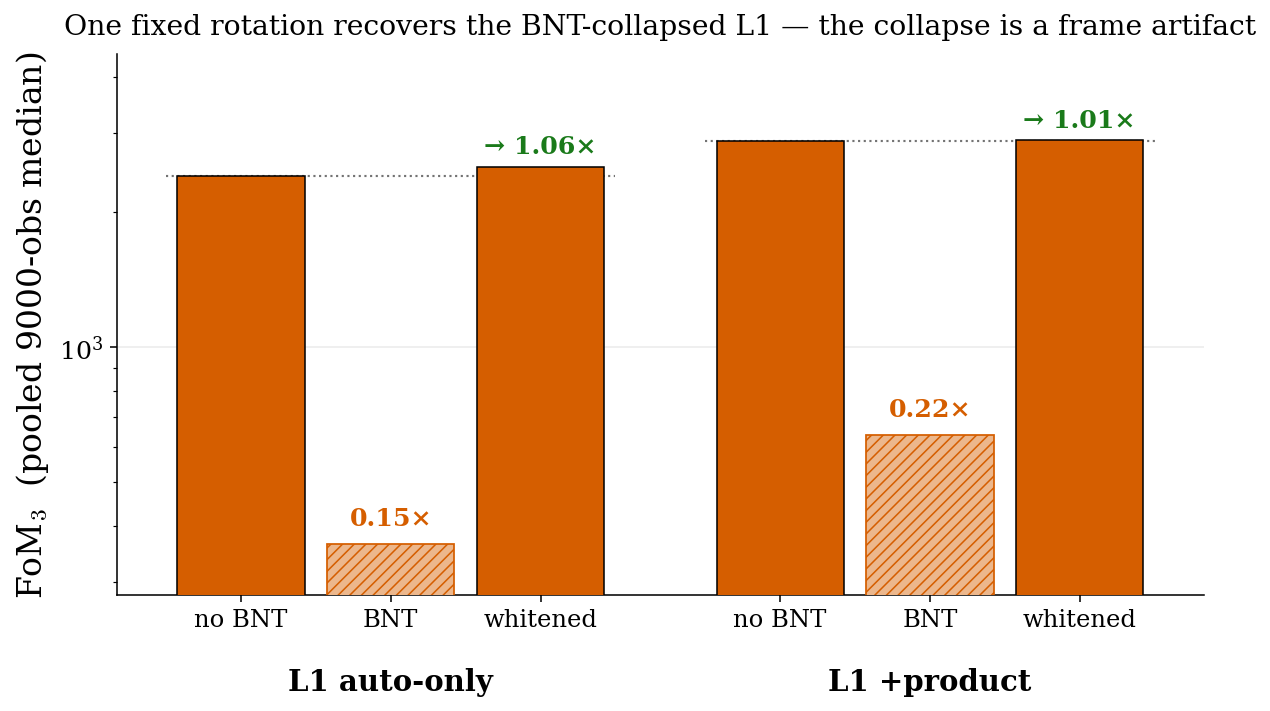
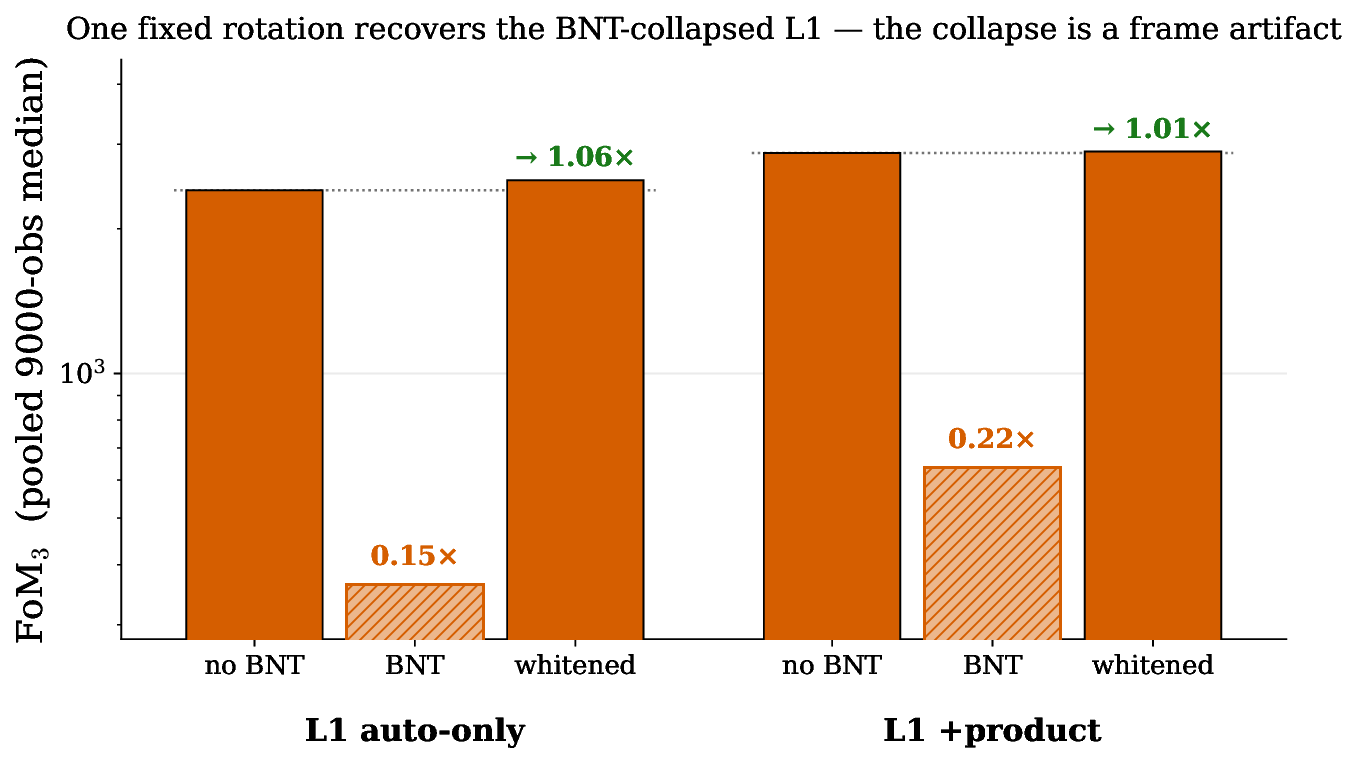
fix(NonGaussian_Universe_2026): PNG figure twins for mobile; PDFs into pdf/ subdirs
PDF-in-<img> only renders in desktop Safari (blank on iOS Safari, Chrome, Firefox).
Rasterize every figure to a transparent PNG (gs pngalpha, 150 DPI, alpha preserved) and
point all 28 <img> refs at the PNGs, so the deck renders everywhere. Move this deck's
PDF sources into per-category pdf/ subfolders (figures/{maps,statistics,posteriors}/pdf,
diagrams/pdf); the 3 PDFs shared with 13 other decks stay in the category roots.

diff --git a/NonGaussian_Universe_2026/index.html b/NonGaussian_Universe_2026/index.html
@@ -137,7 +137,7 @@
 			<!-- S5 (peak counts, adapted from the LAM deck); DARK slide -->
 			<section>
 				<h3 class="slide-title tight"><span class="sec">§1</span> Higher-order statistic I: <b class="alert">peak counts</b></h3>
-				<img class="plain" src="../assets/diagrams/cosmology_with_maps.pdf" style="max-height:400px;" alt="convergence maps with peaks marked, the lensing power spectrum, and the peak-count curve">
+				<img class="plain" src="../assets/diagrams/cosmology_with_maps.png" style="max-height:400px;" alt="convergence maps with peaks marked, the lensing power spectrum, and the peak-count curve">
 				<div class="block" style="margin-top:0.2em;">
 					<div class="block-content" style="font-size:0.74em;">
 						<ul>
@@ -154,7 +154,7 @@
 			<!-- S5b (wavelet peaks, adapted from the LAM deck); DARK slide -->
 			<section>
 				<h3 class="slide-title tight"><span class="sec">§1</span> Wavelet peaks: a multi-scale peak count via the starlet transform</h3>
-				<img class="plain" src="../assets/diagrams/starlet_transform.pdf" style="max-height:300px;" alt="starlet decomposition: a map as a sum of wavelet bands plus a coarse map">
+				<img class="plain" src="../assets/diagrams/starlet_transform.png" style="max-height:300px;" alt="starlet decomposition: a map as a sum of wavelet bands plus a coarse map">
 				<div class="block" style="margin-top:0.25em;">
 					<div class="block-content" style="font-size:0.78em;">
 						<ul>
@@ -172,7 +172,7 @@
 			<!-- S6 (l1-norm, adapted from the LAM deck); DARK slide -->
 			<section>
 				<h3 class="slide-title tight"><span class="sec">§1</span> Higher-order statistic II: the starlet <b class="alert">&#8467;1-norm</b></h3>
-				<img class="plain" src="../assets/figures/statistics/wavelet_l1_norm.pdf" style="max-height:230px;" alt="starlet decomposition of a convergence map across scales">
+				<img class="plain" src="../assets/figures/statistics/wavelet_l1_norm.png" style="max-height:230px;" alt="starlet decomposition of a convergence map across scales">
 				<div style="font-size:0.9em; margin:0.15em 0;">$$ \ell_1^{\,j,i} \;=\; \sum_{u} \left| \mathcal{S}_{j,i}[u] \right| \;=\; \lVert \mathcal{S}_{j,i} \rVert_1 $$</div>
 				<div class="block">
 					<div class="block-content" style="font-size:0.74em;">
@@ -225,7 +225,7 @@
 					<li class="fragment fade-in">$C_\ell$: requires an aggressive cut at $\ell \lesssim 400$ &rarr; <b class="alert">discards most signal</b></li>
 					<li class="fragment fade-in">Starlet: contamination <b class="alert">isolated in one scale</b> &rarr; removing just the finest wavelet band is sufficient across <em>all</em> survey areas</li>
 				</ul>
-				<img class="plain fragment fade-in" src="../assets/figures/statistics/nsigma_vs_upper_cut_masks.pdf" style="max-height:300px; display:block; margin:0 auto;" alt="parameter tension versus upper scale cut, for different survey masks">
+				<img class="plain fragment fade-in" src="../assets/figures/statistics/nsigma_vs_upper_cut_masks.png" style="max-height:300px; display:block; margin:0 auto;" alt="parameter tension versus upper scale cut, for different survey masks">
 				<div class="block fragment fade-in" style="margin-top:0.5em;">
 					<div class="block-content" style="font-size:0.78em;">We run this analysis as a function of survey area: more area means smaller statistical errors, and thus higher sensitivity to bias.</div>
 				</div>
@@ -238,7 +238,7 @@
 				<h3 class="slide-title tight"><span class="sec">§1</span> Baryonic Bias Scales with Survey Area</h3>
 				<div class="container" style="align-items:center; margin-top:0.2em;">
 					<div class="col fragment fade-in" style="flex:1.35;">
-						<img class="plain" src="../assets/figures/statistics/nsigma_vs_mask_area_all_stats_lmax1024.pdf" style="max-height:280px;" alt="parameter tension in sigma versus survey area for all statistics">
+						<img class="plain" src="../assets/figures/statistics/nsigma_vs_mask_area_all_stats_lmax1024.png" style="max-height:280px;" alt="parameter tension in sigma versus survey area for all statistics">
 						<ul style="font-size:0.78em;">
 							<li class="fragment fade-in">At <b class="alert">14,000 deg&sup2;</b> (Stage IV): $C_\ell$ already shows $\sim 2\sigma$ tension</li>
 							<li class="fragment fade-in">At <b class="alert">full sky</b>: tension exceeds $3\sigma$ for <em>all</em> statistics</li>
@@ -246,7 +246,7 @@
 						</ul>
 					</div>
 					<div class="col" style="flex:1.2;">
-						<img class="plain fragment fade-in" src="../assets/figures/posteriors/triangle_plot_subset_baryonified_PS_1024_diff_areas.pdf" style="max-height:380px;" alt="power spectrum posterior contours, biased by baryons, for different survey areas">
+						<img class="plain fragment fade-in" src="../assets/figures/posteriors/triangle_plot_subset_baryonified_PS_1024_diff_areas.png" style="max-height:380px;" alt="power spectrum posterior contours, biased by baryons, for different survey areas">
 					</div>
 				</div>
 				<aside class="notes">Bias grows with survey area (more area, smaller errors, higher sensitivity). At Stage IV (~14,000 deg2) C_l already shows ~2 sigma; at full sky tension exceeds 3 sigma for all statistics (lmax=1024); HOS are more sensitive than C_l, they live on the contaminated small scales.</aside>
@@ -258,7 +258,7 @@
 				<h3 class="slide-title tight"><span class="sec">§1</span> Are HOS still useful?</h3>
 				<div class="container" style="align-items:center; margin-top:0.2em;">
 					<div class="col fragment fade-in" style="flex:1.2;">
-						<img class="plain" src="../assets/figures/posteriors/triangle_plot_subset_baryonified_lmax400_peaks_l1_scales234.pdf" style="max-height:400px;" alt="posterior contours on baryon-safe scales: power spectrum, peaks, and l1-norm">
+						<img class="plain" src="../assets/figures/posteriors/triangle_plot_subset_baryonified_lmax400_peaks_l1_scales234.png" style="max-height:400px;" alt="posterior contours on baryon-safe scales: power spectrum, peaks, and l1-norm">
 					</div>
 					<div class="col" style="flex:0.85;">
 						<div class="block fragment fade-in">
@@ -305,12 +305,12 @@
 				<h3 class="slide-title tight"><span class="sec">§1</span> The BNT transform localizes each tomographic bin in redshift (a linear nulling)</h3>
 				<div class="figrow" style="margin-top:0.2em;">
 					<figure class="fig">
-						<img class="plain" src="../assets/figures/statistics/p1_kernels_standard.pdf" style="max-height:235px;" alt="standard lensing efficiency kernels: broad and overlapping across redshift">
+						<img class="plain" src="../assets/figures/statistics/p1_kernels_standard.png" style="max-height:235px;" alt="standard lensing efficiency kernels: broad and overlapping across redshift">
 						<figcaption>standard: broad, overlapping</figcaption>
 					</figure>
 					<span class="arrow">&rarr;</span>
 					<figure class="fig">
-						<img class="plain" src="../assets/figures/statistics/p1_bnt_kernels.pdf" style="max-height:235px;" alt="BNT lensing efficiency kernels: nulled and localized per bin">
+						<img class="plain" src="../assets/figures/statistics/p1_bnt_kernels.png" style="max-height:235px;" alt="BNT lensing efficiency kernels: nulled and localized per bin">
 						<figcaption>BNT: nulled, localized</figcaption>
 					</figure>
 				</div>
@@ -336,7 +336,7 @@
 				<div class="container" style="align-items:center; margin-top:0.2em;">
 					<div class="col" style="flex:1.25;">
 						<figure class="fig">
-							<img class="plain" src="../assets/figures/posteriors/p1_BRIDGE_bnt_inflates_l1.pdf" style="max-height:430px;" alt="l1-norm contours: BNT inflated versus safe-scale and all-scale">
+							<img class="plain" src="../assets/figures/posteriors/p1_BRIDGE_bnt_inflates_l1.png" style="max-height:430px;" alt="l1-norm contours: BNT inflated versus safe-scale and all-scale">
 							<figcaption>The per-bin HOS contours <b>inflate dramatically</b> (gray = BNT; the noise mixing raises the floor).</figcaption>
 						</figure>
 					</div>
@@ -457,7 +457,7 @@
 			<!-- S10 — figure: p2_pipeline_schematic -->
 			<section data-theme="light">
 				<h3 class="slide-title tight"><span class="sec">§2</span> The comparison, done fairly: same maps, same flow, both calibrated</h3>
-				<div class="fig"><img class="plain" src="../assets/diagrams/p2_pipeline_schematic.pdf" style="max-height:380px;" alt="kappa maps to either l1-norm or CNN-VMIM, into the same flow density estimator, to a calibration-gated posterior"></div>
+				<div class="fig"><img class="plain" src="../assets/diagrams/p2_pipeline_schematic.png" style="max-height:380px;" alt="kappa maps to either l1-norm or CNN-VMIM, into the same flow density estimator, to a calibration-gated posterior"></div>
 				<div class="takeaway" style="max-width:92%;">
 					<span class="label">apples to apples</span>
 					<ul>
@@ -478,14 +478,14 @@
 					<div class="col">
 												<div class="fig">
 							<div class="r-stack">
-								<img class="plain" src="../assets/figures/posteriors/p2_M1_corner_matched_step1_l1.pdf" style="max-height:440px;" alt="matched-NDE L1+product posterior, with the FoM3 inset">
-								<img class="plain fragment" src="../assets/figures/posteriors/p2_M1_corner_matched_step2_l1cnn.pdf" style="max-height:440px;" alt="L1 and CNN matched-NDE posteriors nearly coincide (~7%)">
+								<img class="plain" src="../assets/figures/posteriors/p2_M1_corner_matched_step1_l1.png" style="max-height:440px;" alt="matched-NDE L1+product posterior, with the FoM3 inset">
+								<img class="plain fragment" src="../assets/figures/posteriors/p2_M1_corner_matched_step2_l1cnn.png" style="max-height:440px;" alt="L1 and CNN matched-NDE posteriors nearly coincide (~7%)">
 							</div>
 							<p class="cap" style="text-align:center; margin-top:0.3em;">&#8467;1 and CNN posteriors nearly coincide</p>
 						</div>
 					</div>
 					<div class="col">
-						<div class="fig fragment"><img class="plain" src="../assets/figures/statistics/p2_M1_violin_fom3.pdf" style="max-height:430px;" alt="per-patch FoM3 distribution for L1+product versus CNN: medians 3045 and 3326, near-identical spread"><p class="cap" style="text-align:center; margin-top:0.3em;">near-identical FoM3 across patches (3045 vs 3326)</p></div>
+						<div class="fig fragment"><img class="plain" src="../assets/figures/statistics/p2_M1_violin_fom3.png" style="max-height:430px;" alt="per-patch FoM3 distribution for L1+product versus CNN: medians 3045 and 3326, near-identical spread"><p class="cap" style="text-align:center; margin-top:0.3em;">near-identical FoM3 across patches (3045 vs 3326)</p></div>
 					</div>
 				</div>
 		
@@ -500,11 +500,11 @@
 				<h3 class="slide-title tight"><span class="sec">§2</span> Can we trust it? Every arm passes the same TARP + SBC tests reasonably</h3>
 				<div class="figrow" style="margin-top:0.3em;">
 					<figure class="fig">
-						<img class="plain" src="../assets/figures/statistics/p2_M1_calibration_tarp.pdf" style="max-height:340px;" alt="TARP-DRP coverage on the diagonal for both arms">
+						<img class="plain" src="../assets/figures/statistics/p2_M1_calibration_tarp.png" style="max-height:340px;" alt="TARP-DRP coverage on the diagonal for both arms">
 						<figcaption>TARP-DRP coverage: on the diagonal</figcaption>
 					</figure>
 					<figure class="fig">
-						<img class="plain" src="../assets/figures/statistics/p2_M1_calibration_sbc.pdf" style="max-height:340px;" alt="SBC rank uniformity within the band for both arms">
+						<img class="plain" src="../assets/figures/statistics/p2_M1_calibration_sbc.png" style="max-height:340px;" alt="SBC rank uniformity within the band for both arms">
 						<figcaption>SBC ranks: flat within the 99.5% band</figcaption>
 					</figure>
 				</div>
@@ -526,10 +526,10 @@
 					<div class="col" style="flex:0 0 54%;">
 												<div class="fig">
 							<div class="r-stack">
-								<img class="plain" src="../assets/figures/posteriors/p2_M3_corner_bnt_4way_step1_l1nobnt.pdf" style="max-height:450px;" alt="L1 no-BNT posterior">
-								<img class="plain fragment" data-fragment-index="1" src="../assets/figures/posteriors/p2_M3_corner_bnt_4way_step2_nobnt_pair.pdf" style="max-height:450px;" alt="L1 and CNN no-BNT, both tight (the tie)">
-								<img class="plain fragment" data-fragment-index="2" src="../assets/figures/posteriors/p2_M3_corner_bnt_4way_step3_l1bnt.pdf" style="max-height:450px;" alt="the per-bin L1 balloons under BNT (0.26x)">
-								<img class="plain fragment" data-fragment-index="3" src="../assets/figures/posteriors/p2_M3_corner_bnt_4way_step4_all.pdf" style="max-height:450px;" alt="the channel-mixing CNN stays tight under BNT (0.96x)">
+								<img class="plain" src="../assets/figures/posteriors/p2_M3_corner_bnt_4way_step1_l1nobnt.png" style="max-height:450px;" alt="L1 no-BNT posterior">
+								<img class="plain fragment" data-fragment-index="1" src="../assets/figures/posteriors/p2_M3_corner_bnt_4way_step2_nobnt_pair.png" style="max-height:450px;" alt="L1 and CNN no-BNT, both tight (the tie)">
+								<img class="plain fragment" data-fragment-index="2" src="../assets/figures/posteriors/p2_M3_corner_bnt_4way_step3_l1bnt.png" style="max-height:450px;" alt="the per-bin L1 balloons under BNT (0.26x)">
+								<img class="plain fragment" data-fragment-index="3" src="../assets/figures/posteriors/p2_M3_corner_bnt_4way_step4_all.png" style="max-height:450px;" alt="the channel-mixing CNN stays tight under BNT (0.96x)">
 							</div>
 						</div>
 					</div>
@@ -704,11 +704,11 @@
 				<h3 class="slide-title tight"><span class="sec">§1</span> You can see it in the maps: BNT trades deep signal for amplified, correlated noise</h3>
 				<div class="figcol" style="margin-top:0.3em;">
 					<figure class="fig">
-						<img class="plain" src="../assets/figures/maps/p1_maps_before_noisy.pdf" alt="noisy tomographic maps before BNT">
+						<img class="plain" src="../assets/figures/maps/p1_maps_before_noisy.png" alt="noisy tomographic maps before BNT">
 						<figcaption>before BNT</figcaption>
 					</figure>
 					<figure class="fig">
-						<img class="plain" src="../assets/figures/maps/p1_maps_after_bnt_noisy.pdf" alt="noisy maps after BNT, visibly degraded SNR">
+						<img class="plain" src="../assets/figures/maps/p1_maps_after_bnt_noisy.png" alt="noisy maps after BNT, visibly degraded SNR">
 						<figcaption>after BNT: the SNR collapses</figcaption>
 					</figure>
 				</div>
@@ -721,11 +721,11 @@
 				<h3 class="slide-title tight"><span class="sec">§1</span> The same maps, noiseless: BNT cleanly redistributes the signal</h3>
 				<div class="figcol" style="margin-top:0.3em;">
 					<figure class="fig">
-						<img class="plain" src="../assets/figures/maps/p1_maps_before_noiseless.pdf" alt="noiseless tomographic maps before BNT">
+						<img class="plain" src="../assets/figures/maps/p1_maps_before_noiseless.png" alt="noiseless tomographic maps before BNT">
 						<figcaption>before BNT (noiseless)</figcaption>
 					</figure>
 					<figure class="fig">
-						<img class="plain" src="../assets/figures/maps/p1_maps_after_bnt_noiseless.pdf" alt="noiseless maps after BNT">
+						<img class="plain" src="../assets/figures/maps/p1_maps_after_bnt_noiseless.png" alt="noiseless maps after BNT">
 						<figcaption>after BNT (noiseless)</figcaption>
 					</figure>
 				</div>
@@ -737,7 +737,7 @@
 			<!-- S14 ★ — figure: p2_M2_cross_deleaking -->
 			<section data-theme="light">
 				<h3 class="slide-title tight"><span class="sec">§2</span> Where the cross-bin information lives: the &kappa;<sub>i</sub>&kappa;<sub>j</sub> product buys ~20% (and the full-sphere 4&times; was leakage)</h3>
-				<div class="fig"><img class="plain" src="../assets/figures/statistics/p2_M2_cross_deleaking_nofullsphere.pdf" style="max-height:410px;" alt="L1 cross-map arms: auto, plus conv, plus product, plus both (no full-sphere bar)"></div>
+				<div class="fig"><img class="plain" src="../assets/figures/statistics/p2_M2_cross_deleaking_nofullsphere.png" style="max-height:410px;" alt="L1 cross-map arms: auto, plus conv, plus product, plus both (no full-sphere bar)"></div>
 				<div class="takeaway" style="max-width:90%;">
 					<span class="label">add the cross-bin physics carefully</span>
 					<ul>
@@ -754,7 +754,7 @@
 			<!-- S16 ★ — figure: p2_M3_bnt_whitening; close the Vinciguerra loop -->
 			<section data-theme="light">
 				<h3 class="slide-title tight"><span class="sec">§2</span> The clincher: a frame artifact, not lost information (one rotation recovers &#8467;1, 1.06&times;)</h3>
-				<div class="fig"><img class="plain" src="../assets/figures/statistics/p2_M3_bnt_whitening.pdf" style="max-height:400px;" alt="no-BNT, BNT collapsed, and whitened (recovered to 1.06x) per arm"></div>
+				<div class="fig"><img class="plain" src="../assets/figures/statistics/p2_M3_bnt_whitening.png" style="max-height:400px;" alt="no-BNT, BNT collapsed, and whitened (recovered to 1.06x) per arm"></div>
 				<div class="takeaway" style="max-width:92%;">
 					<span class="label">the information was never lost</span>
 					<ul>
@@ -773,12 +773,12 @@
 				<h3 class="slide-title tight"><span class="sec">§3</span> One story: the optimal tomographic strategy (BNT becomes viable once the summary mixes bins)</h3>
 				<div class="figrow" style="margin-top:0.2em;">
 					<figure class="fig">
-						<img class="plain" src="../assets/figures/posteriors/p1_BRIDGE_bnt_inflates_l1.pdf" style="max-height:320px;" alt="per-bin l1 contours inflate under BNT">
+						<img class="plain" src="../assets/figures/posteriors/p1_BRIDGE_bnt_inflates_l1.png" style="max-height:320px;" alt="per-bin l1 contours inflate under BNT">
 						<figcaption>problem: the per-bin &#8467;1 inflates under BNT</figcaption>
 					</figure>
 					<span class="arrow">&rarr;</span>
 					<figure class="fig">
-						<img class="plain" src="../assets/figures/statistics/p2_M3_bnt_whitening.pdf" style="max-height:320px;" alt="whitening recovers the l1 information">
+						<img class="plain" src="../assets/figures/statistics/p2_M3_bnt_whitening.png" style="max-height:320px;" alt="whitening recovers the l1 information">
 						<figcaption>resolution: mix the bins, or re-rotate</figcaption>
 					</figure>
 				</div>
